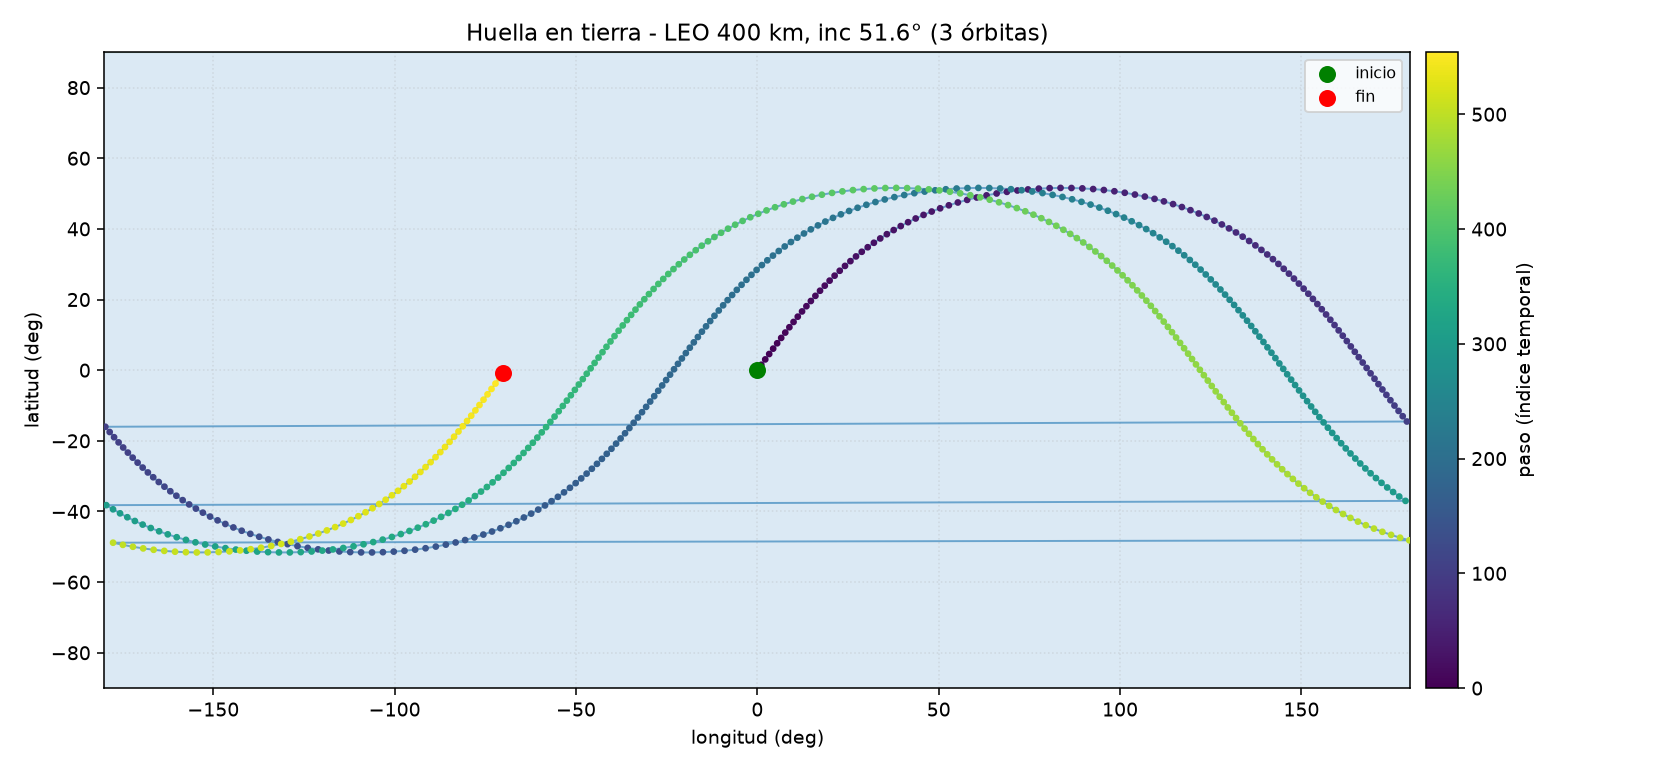
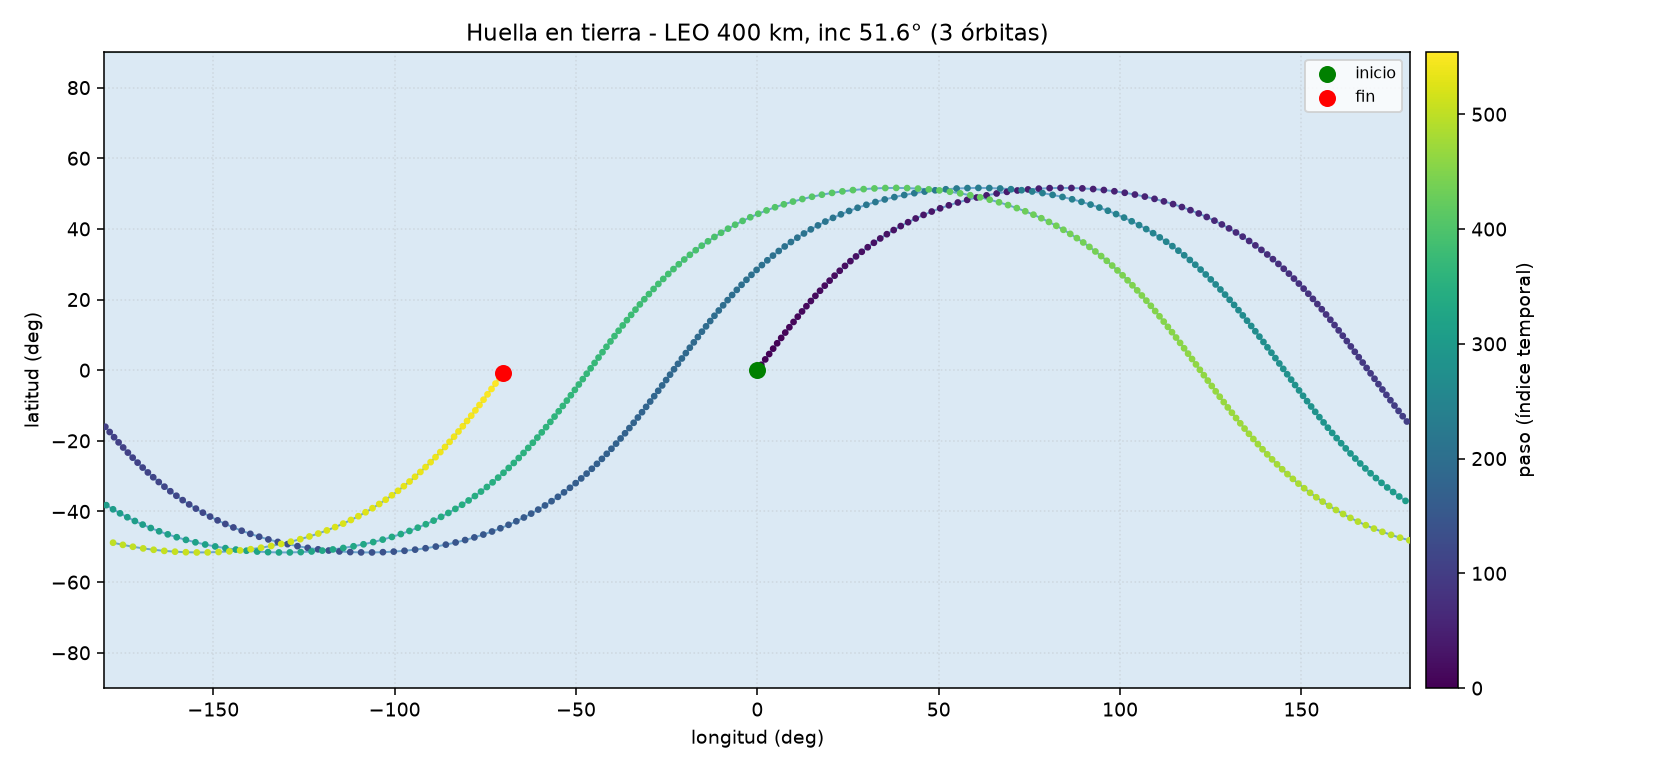
Fix antimeridian wrap artifact in ground track; add orthographic (globe) projection

diff --git a/examples/output/ground_track.html b/examples/output/ground_track.html
@@ -26,16 +26,31 @@
 <script src="https://unpkg.com/leaflet@1.9.4/dist/leaflet.js"></script>
 <script>
   const points = [[0.0, 0.0], [2.9856258596710483, 2.1185175784856103], [5.966128830936175, 4.24997459087118], [8.936282442086377, 6.407503229212292], [11.890649965502135, 8.604622059259992], [14.823471538757982, 10.855430708206045], [17.728541930113703, 13.174804433932637], [20.599075814163086, 15.578584963777782], [23.42755757983712, 18.083760147381014], [26.205573147402053, 20.708619120841497], [28.923622273404867, 23.472861069025505], [31.57091175484609, 26.397623423748673], [34.13513336187206, 29.505378664266914], [36.6022359838502, 32.81962760618428], [38.956210270398415, 36.3642926081663], [41.17891683468011, 40.1626913361019], [43.25000612670485, 44.235961477448974], [45.146998028882265, 48.60082877078949], [46.8456074970078, 53.26669385021575], [48.32040960626088, 58.23218883813522], [49.54591824640126, 63.48163402379226], [50.49809108455343, 68.98216241534651], [51.15616248892781, 74.68253564169632], [51.50456484331969, 80.51462985081389], [51.53458107127723, 86.39804637710222], [51.24534994185424, 92.24735534286826], [50.643965703300275, 97.98050080092246], [49.74464562417497, 103.5264220376669], [48.56718305448645, 108.83026810755682], [47.1350515706939, 113.85550186011689], [45.47353159479168, 118.58318382961951], [43.60812717051401, 123.00935054447278], [41.563398802084926, 127.14153334899835], [39.3622185972598, 130.99524984728373], [37.02538228805772, 134.59096454060605], [34.571486149589795, 137.9517178218297], [32.016979867528626, 141.10142585594915], [29.37632330763918, 144.06375447427166], [26.662195217805333, 146.8614385023227], [23.885719685531022, 149.51592360735074], [21.056689821101767, 152.04722913950857], [18.18377767631585, 154.4739551039752], [15.274725624422494, 156.81337851508823], [12.336518233401131, 159.0816020011677], [9.375535850449245, 161.2937306144181], [6.397692274612107, 163.46406207069057], [3.4085594406407056, 165.6062819791527], [0.4134822434684458, 167.7336598118314], [-2.5823133282095463, 169.85924402460606], [-5.573615604463665, 171.996056312516], [-8.555123075569933, 174.15728574174554], [-11.521337549172598, 176.35648358919866], [-14.466451487229692, 178.6077591548702], [-17.38422635765292, -179.0740245134353], [-20.267858849137664, -176.67305836770478], [-23.109831943979362, -174.17240567875876], [-25.9017482737019, -171.55384369708582], [-28.634144137687645, -168.79774979970426], [-31.296284416382576, -165.88306521484355], [-33.875941899220784, -162.78738574010455], [-36.35917000988746, -159.48724982856524], [-38.73008644298624, -155.9587187504276], [-40.97069768901823, -152.17836673812008], [-43.06081115204285, -148.12481076728167], [-44.97810136980106, -143.78089096314574], [-46.69841545078069, -139.13653518941692], [-48.196411098485946, -134.19217366960567], [-49.44660392717192, -128.9622972312543], [-50.42484267425417, -123.47841607720659], [-51.11012338915971, -117.79040717676898], [-51.48651330926508, -111.96525297473588], [-51.544833485145716, -106.08266016099212], [-51.28371889275889, -100.22797195351967], [-50.70978448993837, -94.48378345536865], [-49.83685237046172, -88.92219686938236], [-48.68444235887871, -83.59938956923011], [-47.275885851383386, -78.55327700082275], [-45.63643848174814, -73.8040452786286], [-43.79166904470721, -69.35666794151581], [-41.76626058870597, -65.20435584624762], [-39.583236933192175, -61.332085283728354], [-37.26355252598406, -57.7196826331392], [-34.82595420691274, -54.34424739867066], [-32.287024941358816, -51.18190007318371], [-29.661335958565022, -48.20894704205172], [-26.96165385355579, -45.40259037626273], [-24.199167292156506, -42.74130661552489], [-21.383711936800534, -40.20499789569798], [-18.523982035133866, -37.77499409050492], [-15.627723542037923, -35.43396223208904], [-12.701907597775389, -33.16576150569465], [-9.752885463416696, -30.955268709832325], [-6.786527228732076, -28.788189548034264], [-3.808347183488339, -26.650864591351144], [-0.82361896272966, -24.53007442036996], [2.162516380910089, -22.412845689619633], [5.1449462507742885, -20.28625820285461], [8.11848323090794, -18.137252252033367], [11.077759575809429, -15.952435300589716], [14.017116357788417, -13.717887550147013], [16.93048412968491, -11.418967105603878], [19.811251955449258, -9.040117560983088], [22.65212176604115, -6.564684229205931], [25.444945350020518, -3.9747504647776646], [28.180542107634096, -1.2510132917229098], [30.848497325539714, 1.6272712940694871], [33.43694367069261, 4.682227585476045], [35.932333554369045, 7.937118168291303], [38.319217853947436, 11.415830972973684], [40.58005809967739, 15.141981654566237], [42.69511514095022, 19.137502326683304], [44.64247673484424, 23.420598222977464], [46.3983059472694, 28.003016854888216], [47.93740367661657, 32.88672162964278], [49.234168417321904, 38.06031393251331], [50.2639878462948, 43.49587867551655], [51.004998991451004, 49.14722622389131], [51.44001693155393, 54.95056455263336], [51.55830073513069, 60.82825163779508], [51.35677081407321, 66.69542276189614], [50.84037213426197, 72.4682629827881], [50.021486571132684, 78.07203466796038], [48.91855037211248, 83.44707133679871], [47.554215263613116, 88.55174891109306], [45.953436471303135, 93.36247356248882], [44.14179092020557, 97.87147878556573], [42.14419040966463, 102.08348527861081], [39.98402467864349, 106.01213596370964], [37.682683715824574, 109.67679638917117], [35.25937097264081, 113.0999927468236], [32.731115718400176, 116.30553365708246], [30.112907164533862, 119.31723811125539], [27.41789292888567, 122.15814485222413], [24.657603137069586, 124.85007641517454], [21.842176298922674, 127.41344969563585], [18.98057370905949, 129.86724947837803], [16.080776160465707, 132.22910449256065], [13.149961144797397, 134.51542447357687], [10.194661278220737, 136.7415709935879], [7.220906085634626, 138.92204505795053], [4.2343499589392275, 141.07068152452797], [1.2403893842744367, 143.20084511521134], [-1.7557273944269365, 145.32562582117748], [-4.748795122061335, 147.45803334138856], [-7.7335475660340975, 149.61119115777237], [-10.704551725652601, 151.79853111742386], [-13.656097089507522, 154.03398901227766], [-16.58207678218345, 156.33220054864114], [-19.475857436449825, 158.70869508248202], [-22.33013472470397, 161.1800812143255], [-25.13677181550623, 163.76421327341168], [-27.886618800668078, 166.48032017611797], [-30.569312696393308, 169.349067270619], [-33.17306044882349, 172.39250672459212], [-35.68441215264897, 175.63385229514535], [-38.08803928293303, 179.0969906450398], [-40.36654404970056, -177.194382875165], [-42.50034156613196, -173.2181324483876], [-44.46767574055137, -168.9556746775617], [-46.24484941796734, -164.39465882410076], [-47.80676165160858, -159.53225699319523], [-49.12783688838641, -154.3787425489998], [-50.183385612792286, -148.9607072811808], [-50.95134179276453, -143.32296126029334], [-51.414187509352054, -137.5280725643275], [-51.5607413735364, -131.65285030938193], [-51.3874248897911, -125.7819007960522], [-50.89869067982498, -119.99941586507451], [-50.10649809667913, -114.38105820715121], [-49.02897523658475, -108.98776824064679], [-47.68859722474766, -103.86255628830185], [-46.11026582368066, -99.03031308836437], [-44.319602436005844, -94.49988566575716], [-42.341629682010776, -90.2673679906122], [-40.19988446723418, -86.3196743717961], [-37.91591619342245, -82.63777965849152], [-35.509082950687066, -79.19933292667508], [-32.996553240113, -75.98058536132919], [-30.393434401136922, -72.95770378948801], [-27.712968791200975, -70.10759301452804], [-24.966757740115515, -67.40835455712276], [-22.164988475433763, -64.8394916821617], [-19.316650128522895, -62.38194613483978], [-16.429732204173266, -60.01802863073502], [-13.511403444251476, -57.73128588018324], [-10.568171686757104, -55.50633231270661], [-7.606026779575923, -53.328664158596546], [-4.630569326518394, -51.184466276662704], [-1.6471283395092506, -49.06041725171074], [1.339129051225972, -46.943495140424844], [4.323092692080789, -44.82078431894399], [7.299606203991633, -42.67928284491451], [10.263362397991683, -40.50570939989717], [13.208794209345834, -38.28630915907226], [16.129958017122647, -36.00665889743385], [19.02040619648251, -33.651473462687285], [21.87304581469528, -31.204418743558026], [24.679980647854123, -28.64794092095878], [27.432334357531232, -25.963128771790863], [30.12005402913972, -23.129635926159324], [32.73169579171842, -20.125704131819514], [35.25419855545466, -16.928347357977046], [37.67265885063408, -13.513779601883392], [39.97013024873847, -9.85819385867818], [42.12748557106586, -5.939018693171241], [44.12339874737847, -1.7367776816420357], [45.934523206740614, 2.762368392312911], [47.535958440308434, 7.563437810586141], [48.90209378080734, 12.659066879317242], [50.0078820684768, 18.02615189875916], [50.830511840923386, 23.62359858368954], [51.35131774963395, 29.39223306592153], [51.55762969668655, 35.257681673098766], [51.4441781381411, 41.13628616245763], [51.0137132026299, 46.943094798885724], [50.276674161417795, 52.60015548070506], [49.24999792412715, 58.04321219508015], [47.955367051877914, 63.22554826911859], [46.41728260826666, 68.11874159879173], [44.661296259409006, 72.71096310857206], [42.71260616826032, 77.00384815273696], [40.59508384343209, 81.00891994772114], [38.330699818628446, 84.74424988220677], [35.93926607841051, 88.23170746381592], [33.43840198490434, 91.49489766346856], [30.843641395868705, 94.5577331642843], [28.168617969238376, 97.44352403646641], [25.42528511672925, 100.17445571386597], [22.624143085204523, 102.7713409405563], [19.774457381005174, 105.253555282625], [16.884460688056446, 107.639089751219], [13.961535457625791, 109.94467427124093], [11.012377341505118, 112.18594125607862], [8.043141304111549, 114.37760981675554], [5.059573091653077, 116.53367898178648], [2.067129103492541, 118.6676235896236], [-0.9289121743743568, 120.79258995522555], [-3.92334401257636, 122.9215905411798], [-6.910927427767654, 125.06769804554446], [-9.886286206413788, 127.24423976762465], [-12.843797842205543, 129.46499291343204], [-15.777477236636376, 131.74438061697796], [-18.680849994079274, 134.09766671850588], [-21.546812201505187, 136.5411444519263], [-24.36747383310003, 139.09230968327168], [-27.133983548845013, 141.7700025613318], [-29.836333957923568, 144.5944915761422], [-32.46314883491553, 147.587460193555], [-35.001457937134006, 150.77183780292242], [-37.43647179393996, 154.17139394206896], [-39.75137904165006, 157.8099900987272], [-41.92720327275357, 161.71036358503633], [-43.94277476579741, 165.89231692622954], [-45.774892514192956, 170.37022724060466], [-47.39876741276413, 175.14990444231893], [-48.78883661595891, -179.77495785241268], [-49.92000570893508, -174.42618385299497], [-50.7692949864273, -168.8434859000643], [-51.31773979294543, -163.08474915132783], [-51.55225454107061, -157.22338740460023], [-51.46708043922476, -151.34263337253142], [-51.06446685709416, -145.52764676533877], [-50.35440640666369, -139.85717314940442], [-49.35349436041816, -134.39667215303172], [-48.083201491431396, -129.19423967278664], [-46.567944746207765, -124.27963580020034], [-44.833297595251324, -119.66583727423685], [-42.90455507149974, -115.35209684433953], [-40.805729554026534, -111.32751512392373], [-38.5589504825477, -107.5744146167405], [-36.184187831196965, -104.07114019132761], [-33.699205787284036, -100.79417289997512], [-31.119662989228633, -97.71960179265612], [-28.459294765805044, -94.82406863139342], [-25.730132478495864, -92.08531498769067], [-22.942731411528598, -89.48244766125394], [-20.10639070838686, -86.99601470654741], [-17.229357042943693, -84.60796021976658], [-14.319008921837089, -82.30150551156203], [-11.382021628489273, -80.06098841988225], [-8.42451455681044, -77.87168095741448], [-5.452183567386111, -75.71959741439265], [-2.470421387155441, -73.59129958497974], [0.5155708035328689, -71.4737022235288]];
+  // Cortar la polilínea en los saltos de antimeridiano (|Δlon|>180)
+  const segments = [];
+  let cur = [points[0]];
+  for (let i = 1; i < points.length; i++) {
+    if (Math.abs(points[i][1] - points[i-1][1]) > 180) {
+      segments.push(cur); cur = [points[i]];
+    } else {
+      cur.push(points[i]);
+    }
+  }
+  segments.push(cur);
   const map = L.map('map').setView([0, 0], 2);
   // Proveedor de tiles que funciona abriendo el HTML localmente (file://).
   // OpenStreetMap bloquea las peticiones sin Referer; Esri no.
   L.tileLayer('https://server.arcgisonline.com/ArcGIS/rest/services/World_Street_Map/MapServer/tile/{z}/{y}/{x}', {
     maxZoom: 8, attribution: 'Tiles &copy; Esri, DeLorme, NAVTEQ'
   }).addTo(map);
-  const poly = L.polyline(points, {color: '#d62728', weight: 2, opacity: 0.8}).addTo(map);
+  const group = L.featureGroup().addTo(map);
+  segments.forEach(seg => {
+    if (seg.length < 2) return;
+    L.polyline(seg, {color: '#d62728', weight: 2, opacity: 0.8}).addTo(group);
+  });
   L.circleMarker(points[0], {radius: 6, color: 'green'}).addTo(map).bindPopup('Inicio');
   L.circleMarker(points[points.length-1], {radius: 6, color: 'red'}).addTo(map).bindPopup('Fin');
-  map.fitBounds(poly.getBounds());
+  map.fitBounds(group.getBounds());
 </script>
 </body>
 </html>

diff --git a/src/orbitas_rt/viz.py b/src/orbitas_rt/viz.py
@@ -15,7 +15,6 @@ matplotlib.use("Agg")
 import matplotlib.pyplot as plt
 from mpl_toolkits.mplot3d import Axes3D  # noqa: F401
 
-
 RE_KM = 6371.0
 MU_KM3_S2 = 3.986004418e5  # km^3/s^2 (Tierra)
 OMEGA_EARTH_RAD_S = 7.2921159e-5  # rotación terrestre
@@ -28,25 +27,33 @@ def _wrap_lon(lon):
 def ground_track(lat_deg, lon_deg, title, path, color="#1f77b4", show_earth=True):
     """Dibuja una huella en tierra (lat/lon) sobre un mapa equirectangular simple.
 
-    lat_deg, lon_deg: arrays en grados.
+    lat_deg, lon_deg: arrays en grados. La polilínea se corta en los saltos de
+    antimeridiano (|Δlon|>180) para evitar rectas espurias.
     """
     lat = np.asarray(lat_deg, dtype=float)
     lon = np.asarray(lon_deg, dtype=float)
     fig, ax = plt.subplots(figsize=(12, 5.5))
     if show_earth:
-        # Fondo "océano" + contorno terrestre simplificado (elipse)
         ax.set_facecolor("#dbe9f4")
-        theta = np.linspace(0, 2 * np.pi, 361)
-        pass
-        # Dibujo de la esfera terrestre como óvalo (aproximación)
         ex = np.linspace(-180, 180, 361)
-        # contorno superior/inferior (círculo en proyección equirectangular es elipse)
         ax.plot(ex, 90 * np.ones_like(ex), color="#2a6f3b", lw=0.6, alpha=0.4)
         ax.plot(ex, -90 * np.ones_like(ex), color="#2a6f3b", lw=0.6, alpha=0.4)
-    # Línea de la huella, coloreada por tiempo (índice)
     sc = ax.scatter(lon, lat, c=np.arange(len(lon)), cmap="viridis", s=6, zorder=3)
-    ax.plot(lon, lat, color=color, lw=1.0, alpha=0.6, zorder=2)
-    # marcar inicio y fin
+    # cortar en saltos de antimeridiano
+    segs = []
+    cur = [(lon[0], lat[0])]
+    for i in range(1, len(lon)):
+        if abs(lon[i] - lon[i - 1]) > 180.0:
+            segs.append(cur)
+            cur = [(lon[i], lat[i])]
+        else:
+            cur.append((lon[i], lat[i]))
+    segs.append(cur)
+    for seg in segs:
+        if len(seg) < 2:
+            continue
+        xs, ys = zip(*seg)
+        ax.plot(xs, ys, color=color, lw=1.0, alpha=0.6, zorder=2)
     ax.scatter([lon[0]], [lat[0]], color="green", s=60, zorder=4, label="inicio")
     ax.scatter([lon[-1]], [lat[-1]], color="red", s=60, zorder=4, label="fin")
     ax.set_xlim(-180, 180)
@@ -63,6 +70,51 @@ def ground_track(lat_deg, lon_deg, title, path, color="#1f77b4", show_earth=True
     plt.close(fig)
 
 
+def ground_track_ortho(lat_deg, lon_deg, title, path, color="#1f77b4"):
+    """Huella en tierra en proyección ortográfica (globo), sin distorsión planar.
+
+    Evita la distorsión de la proyección plana; muestra el hemisferio visible
+    centrado en (0,0).
+    """
+    lat = np.asarray(lat_deg, dtype=float)
+    lon = np.asarray(lon_deg, dtype=float)
+    lat0, lon0 = 0.0, 0.0
+    c = (np.sin(np.radians(lat0)) * np.sin(np.radians(lat)) +
+         np.cos(np.radians(lat0)) * np.cos(np.radians(lat)) *
+         np.cos(np.radians(lon - lon0)))
+    visible = c > 0
+    x = np.cos(np.radians(lat)) * np.sin(np.radians(lon - lon0))
+    y = (np.sin(np.radians(lat)) * np.cos(np.radians(lat0)) -
+         np.cos(np.radians(lat)) * np.sin(np.radians(lat0)) *
+         np.cos(np.radians(lon - lon0)))
+    fig, ax = plt.subplots(figsize=(7, 7))
+    th = np.linspace(0, 2 * np.pi, 361)
+    ax.plot(np.cos(th), np.sin(th), color="#2a6f3b", lw=1.2)
+    ax.fill(np.cos(th), np.sin(th), color="#dbe9f4", alpha=0.4)
+    xs = x[visible]
+    ys = y[visible]
+    ax.scatter(xs, ys, c=np.arange(len(xs)), cmap="viridis", s=6, zorder=3)
+    for i in range(1, len(lat)):
+        if not (visible[i] and visible[i - 1]):
+            continue
+        ax.plot([x[i - 1], x[i]], [y[i - 1], y[i]], color=color, lw=1.0, alpha=0.6, zorder=2)
+    vis_idx = np.where(visible)[0]
+    if len(vis_idx) > 0:
+        ax.scatter([x[vis_idx[0]]], [y[vis_idx[0]]], color="green", s=60, zorder=4, label="inicio")
+        ax.scatter([x[vis_idx[-1]]], [y[vis_idx[-1]]], color="red", s=60, zorder=4, label="fin")
+    ax.set_aspect("equal")
+    ax.set_xlim(-1.15, 1.15)
+    ax.set_ylim(-1.15, 1.15)
+    ax.set_xlabel("x")
+    ax.set_ylabel("y")
+    ax.set_title(title + " (proyección ortográfica)")
+    ax.grid(alpha=0.2, linestyle=":")
+    ax.legend(fontsize=8, loc="upper right")
+    fig.tight_layout()
+    fig.savefig(path, dpi=140)
+    plt.close(fig)
+
+
 def leo_ground_track(altitude_km=400.0, inclination_deg=51.6, n_orbits=3,
                     dt_s=30.0, raan_deg=0.0, arglat0_deg=0.0):
     """Genera (lat, lon) del punto sub-satélite para una órbita circular LEO.
@@ -70,18 +122,16 @@ def leo_ground_track(altitude_km=400.0, inclination_deg=51.6, n_orbits=3,
     Devuelve (lat_deg array, lon_deg array, t_s array).
     """
     a = RE_KM + altitude_km
-    # período orbital (s)
     T = 2 * np.pi * np.sqrt(a ** 3 / MU_KM3_S2)
-    n = 2 * np.pi / T  # rad/s movimiento medio
+    n = 2 * np.pi / T
     i = np.radians(inclination_deg)
     Omega = np.radians(raan_deg)
     u0 = np.radians(arglat0_deg)
 
     t_end = n_orbits * T
     t = np.arange(0.0, t_end, dt_s)
-    u = u0 + n * t  # argumento de latitud
+    u = u0 + n * t
 
-    # posición ECI (km)
     x = a * (np.cos(Omega) * np.cos(u) - np.sin(Omega) * np.sin(u) * np.cos(i))
     y = a * (np.sin(Omega) * np.cos(u) + np.cos(Omega) * np.sin(u) * np.cos(i))
     z = a * (np.sin(i) * np.sin(u))
@@ -89,7 +139,6 @@ def leo_ground_track(altitude_km=400.0, inclination_deg=51.6, n_orbits=3,
     r = np.sqrt(x * x + y * y + z * z)
     lat = np.degrees(np.arcsin(np.clip(z / r, -1, 1)))
     lon_eci = np.degrees(np.arctan2(y, x))
-    # rotación terrestre: lon geográfica = lon_eci - omega_E * t (deg)
     lon_geo = _wrap_lon(lon_eci - np.degrees(OMEGA_EARTH_RAD_S * t))
     return lat, lon_geo, t
 
@@ -98,22 +147,18 @@ def interplanetary(bodies, trajectory=None, title="Diagrama interplanetario (ecl
                    path="interplanetary.png", xlim=None, ylim=None):
     """Dibuja órbitas planetarias y una trayectoria en coordenadas heliocéntricas (AU).
 
-    bodies: lista de dict con keys: name, r (N,2) o (N,3) array en AU (x,y), color, marker.
-           Si se pasa una órbita circular, r puede ser un escalar (radio AU) -> se dibuja círculo.
+    bodies: lista de dict con keys: name, a (radio escalar AU) o r (N,2/3).
     trajectory: dict opcional con keys: name, r (N,2/3), color.
     """
     fig, ax = plt.subplots(figsize=(9, 9))
     ax.set_facecolor("#0b1020")
-    # Sol
     ax.scatter([0], [0], color="#ffd24d", s=200, zorder=5, label="Sol")
-    # Órbitas planetarias (círculos) si se dan como radio escalar
     for b in bodies:
         if np.isscalar(b.get("a")):
             a = b["a"]
             th = np.linspace(0, 2 * np.pi, 361)
             ax.plot(a * np.cos(th), a * np.sin(th), color=b.get("color", "gray"),
                     lw=1.0, alpha=0.6, label=b["name"])
-            # posición actual si se da r
             if "r" in b and not np.isscalar(b["r"]):
                 rr = np.asarray(b["r"])
                 if rr.ndim == 2:
@@ -160,7 +205,6 @@ def plot_orbit_3d(r_eci, title, path, show_earth=True):
     fig = plt.figure(figsize=(9, 8))
     ax = fig.add_subplot(111, projection="3d")
     if show_earth:
-        # Esfera terrestre
         u = np.linspace(0, 2 * np.pi, 40)
         v = np.linspace(0, np.pi, 20)
         xs = RE_KM * np.outer(np.cos(u), np.sin(v))
@@ -170,7 +214,6 @@ def plot_orbit_3d(r_eci, title, path, show_earth=True):
     ax.plot(r[:, 0], r[:, 1], r[:, 2], color="#ff5555", lw=1.5, label="órbita")
     ax.scatter([r[0, 0]], [r[0, 1]], [r[0, 2]], color="green", s=40, label="inicio")
     ax.scatter([r[-1, 0]], [r[-1, 1]], [r[-1, 2]], color="red", s=40, label="fin")
-    # ejes
     maxr = max(np.max(np.abs(r)), RE_KM) * 1.1
     ax.set_xlim(-maxr, maxr)
     ax.set_ylim(-maxr, maxr)

diff --git a/examples/run_web_ground_track.py b/examples/run_web_ground_track.py
@@ -49,16 +49,31 @@ html = """<!DOCTYPE html>
 <script src="https://unpkg.com/leaflet@1.9.4/dist/leaflet.js"></script>
 <script>
   const points = __POINTS__;
+  // Cortar la polilínea en los saltos de antimeridiano (|Δlon|>180)
+  const segments = [];
+  let cur = [points[0]];
+  for (let i = 1; i < points.length; i++) {
+    if (Math.abs(points[i][1] - points[i-1][1]) > 180) {
+      segments.push(cur); cur = [points[i]];
+    } else {
+      cur.push(points[i]);
+    }
+  }
+  segments.push(cur);
   const map = L.map('map').setView([0, 0], 2);
   // Proveedor de tiles que funciona abriendo el HTML localmente (file://).
   // OpenStreetMap bloquea las peticiones sin Referer; Esri no.
   L.tileLayer('https://server.arcgisonline.com/ArcGIS/rest/services/World_Street_Map/MapServer/tile/{z}/{y}/{x}', {
     maxZoom: 8, attribution: 'Tiles &copy; Esri, DeLorme, NAVTEQ'
   }).addTo(map);
-  const poly = L.polyline(points, {color: '#d62728', weight: 2, opacity: 0.8}).addTo(map);
+  const group = L.featureGroup().addTo(map);
+  segments.forEach(seg => {
+    if (seg.length < 2) return;
+    L.polyline(seg, {color: '#d62728', weight: 2, opacity: 0.8}).addTo(group);
+  });
   L.circleMarker(points[0], {radius: 6, color: 'green'}).addTo(map).bindPopup('Inicio');
   L.circleMarker(points[points.length-1], {radius: 6, color: 'red'}).addTo(map).bindPopup('Fin');
-  map.fitBounds(poly.getBounds());
+  map.fitBounds(group.getBounds());
 </script>
 </body>
 </html>

diff --git a/examples/run_leo_ground_track.py b/examples/run_leo_ground_track.py
@@ -7,7 +7,7 @@ import sys
 
 sys.path.insert(0, os.path.join(os.path.dirname(__file__), "..", "src"))
 
-from orbitas_rt.viz import ground_track, leo_ground_track
+from orbitas_rt.viz import ground_track, ground_track_ortho, leo_ground_track
 
 out = os.path.join(os.path.dirname(__file__), "output")
 os.makedirs(out, exist_ok=True)
@@ -19,3 +19,8 @@ path = os.path.join(out, "leo_ground_track.png")
 ground_track(lat, lon, "Huella en tierra - LEO 400 km, inc 51.6° (3 órbitas)",
              path)
 print(f"Guardado: {path}  ({len(t)} puntos)")
+
+path2 = os.path.join(out, "leo_ground_track_ortho.png")
+ground_track_ortho(lat, lon, "Huella en tierra - LEO 400 km, inc 51.6° (3 órbitas)",
+                   path2)
+print(f"Guardado: {path2}")

diff --git a/README.md b/README.md
@@ -109,7 +109,9 @@ Además de las gráficas del filtro, el paquete incluye dos visualizaciones orbi
 (`src/orbitas_rt/viz.py`):
 
 - **Huella en tierra (ground track)** para órbita baja/media (LEO/MEO): proyecta la
-  órbita sobre la superficie terrestre (lat/lon del punto sub-satélite).
+  órbita sobre la superficie terrestre (lat/lon del punto sub-satélite). Incluye
+  versión en proyección ortográfica (globo) para evitar la distorsión de la
+  proyección plana.
   ```bash
   python examples/run_leo_ground_track.py
   ```
